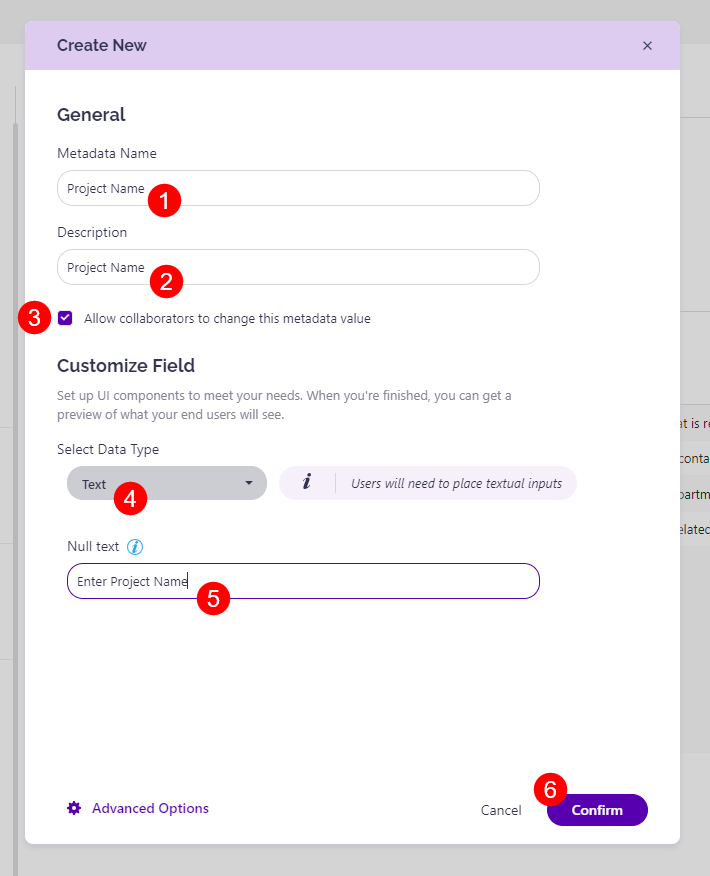
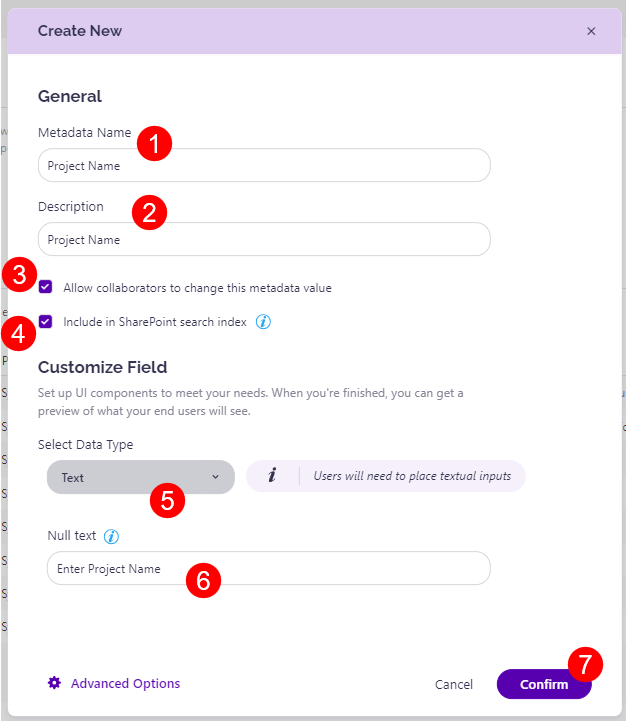
article update

Changed region(s): [[0.0, 0.0, 1.0, 1.0], [0.4249, 0.6408, 0.8195, 0.6713], [0.2732, 0.7628, 0.3642, 0.8544]]

diff --git a/governance-and-automation/manage-custom-metadata.md b/governance-and-automation/manage-custom-metadata.md
@@ -41,10 +41,12 @@ To start, take the following steps:
 Once the create new metadata dialog opens, fill in the following information.
 * **Metadata Name (1)**; the name of the metadata.
 * **Description (2)**; the description of the metadata for end users.
-* **Enable collaborators to change the created metadata (3)** by checking the Allow collaborators to change this metadata value option
-  * By default, this option is disabled
-  * When enabled, owners will be able to modify metadata on their workspaces
-* Select the **data type (4)** of the new metadata under the Customize Field.
+* **Enable collaborators to change the created metadata (3)** by checking the Allow collaborators to change this metadata value option.
+  * By default, this option is disabled.
+  * When enabled, owners can modify metadata on their workspaces.
+* **Include this metadata in the SharePoint search index (4)**.
+  * **Selecting this checkbox** ensures that editing or provisioning the metadata through Syskit Point **results in an indexed property bag value**.
+* Select the **data type (5)** of the new metadata under the Customize Field.
   * In the dropdown menu, there are several data types to choose from
     * **Text**
     * **People**
@@ -52,8 +54,8 @@ Once the create new metadata dialog opens, fill in the following information.
     * **Dropdown**
     * **Yes/No**
     * **Number**
-* Use the **null text (5)** area to add a short hint describing the input field for end users.
-* When satisfied, click **Confirm (6)** to save the metadata definiton.
+* Use the **null text (6)** area to add a short hint describing the input field for end users.
+* When satisfied, click **Confirm (7)** to save the metadata definiton.
 
 ![Create New Metadata](../.gitbook/assets/manage-custom-metadata-create-new-dialog.png)
 
@@ -100,7 +102,7 @@ When generating a report, you can filter out workspaces with desired custom meta
 * Once the custom metadata column is added, use the **filter dropdown menu (2)** in the custom metadata column to filter and show workspaces with selected metadata values. 
 
 ![Filtering by metadata](../.gitbook/assets/manage-custom-metadata-filter.png)
-
+ 
 **Workspaces with selected custom metadata values (3) are displayed**.
 * **Select (4)** one or more of the filtered workspaces to include in the report.
 * Click **Run Report (5)** to generate the report for selected workspaces. 
